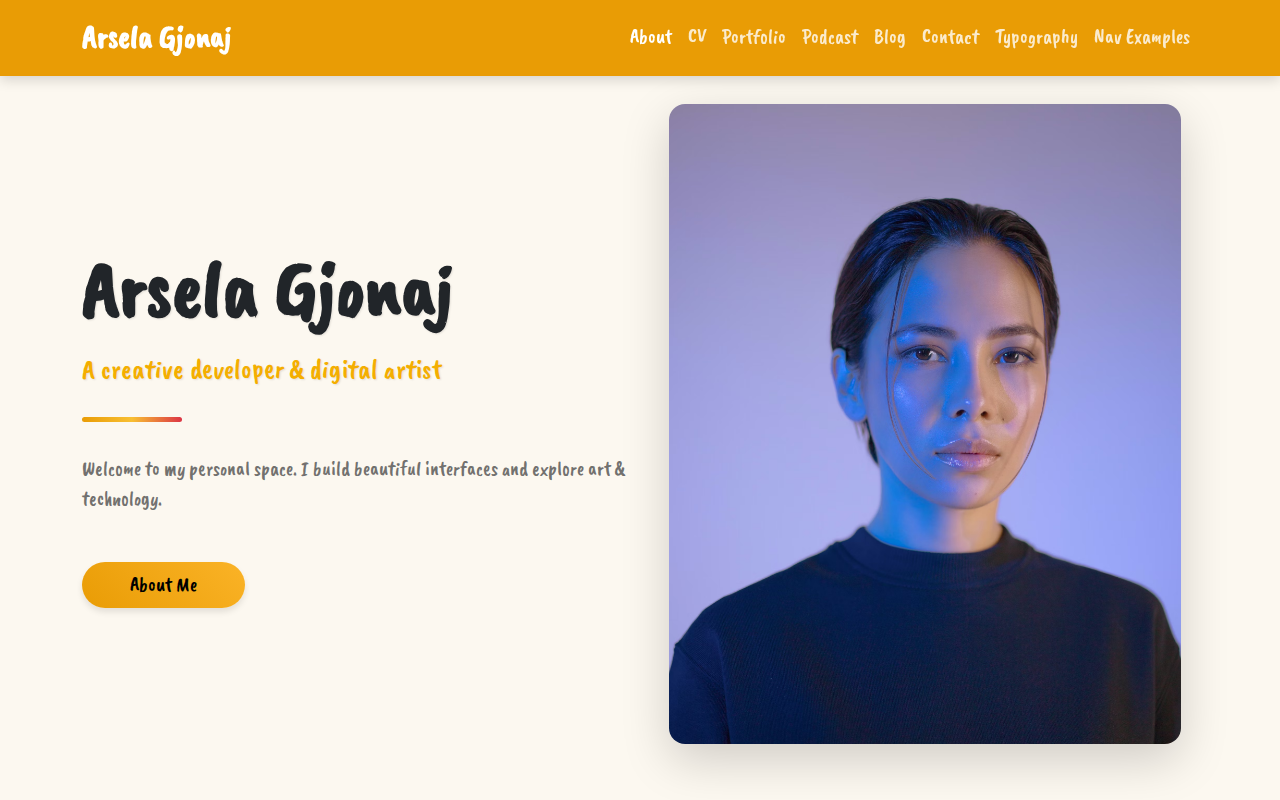
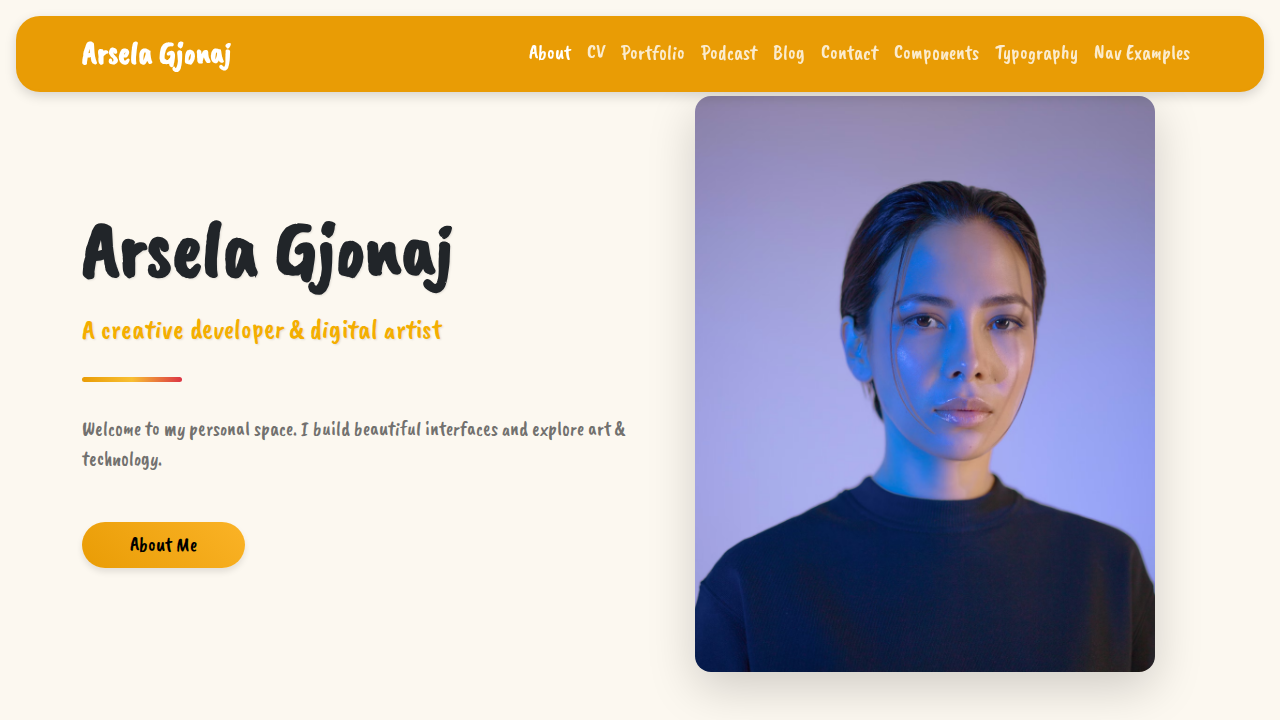
Remove header animation, add custom components page, and floating navbar

diff --git a/public/components.html b/public/components.html
@@ -1,0 +1,192 @@
+<!DOCTYPE html>
+<html lang="en">
+<head>
+    <meta charset="UTF-8">
+    <meta name="viewport" content="width=device-width, initial-scale=1.0">
+    <title>Components | Arsela Gjonaj</title>
+    <link rel="stylesheet" href="css/style.css">
+    <!-- Bootstrap Icons -->
+    <link rel="stylesheet" href="https://cdn.jsdelivr.net/npm/bootstrap-icons@1.11.1/font/bootstrap-icons.css">
+</head>
+<body>
+    <!-- Navbar -->
+    <nav class="navbar navbar-expand-lg navbar-light fixed-top">
+        <div class="container">
+            <a class="navbar-brand fw-bold text-primary" href="index.html">Arsela Gjonaj</a>
+            <button class="navbar-toggler" type="button" data-bs-toggle="collapse" data-bs-target="#navbarNav">
+                <span class="navbar-toggler-icon"></span>
+            </button>
+            <div class="collapse navbar-collapse" id="navbarNav">
+                <ul class="navbar-nav ms-auto">
+                    <li class="nav-item"><a class="nav-link" href="index.html">About</a></li>
+                    <li class="nav-item"><a class="nav-link" href="cv.html">CV</a></li>
+                    <li class="nav-item"><a class="nav-link" href="portfolio.html">Portfolio</a></li>
+                    <li class="nav-item"><a class="nav-link" href="podcast.html">Podcast</a></li>
+                    <li class="nav-item"><a class="nav-link" href="blog.html">Blog</a></li>
+                    <li class="nav-item"><a class="nav-link" href="contact.html">Contact</a></li>
+                    <li class="nav-item"><a class="nav-link active" href="components.html">Components</a></li>
+                    <li class="nav-item"><a class="nav-link" href="typography.html">Typography</a></li>
+                    <li class="nav-item"><a class="nav-link" href="navigation.html">Nav Examples</a></li>
+                </ul>
+            </div>
+        </div>
+    </nav>
+
+    <!-- Header / Title -->
+    <header class="d-flex align-items-center justify-content-center pt-5 pb-5" style="margin-top: 100px;">
+        <div class="container text-center">
+            <h1 class="display-3 fw-bold text-primary mb-3">Custom Components</h1>
+            <p class="lead text-secondary">A collection of custom styled components used in this theme.</p>
+        </div>
+    </header>
+
+    <!-- Components Section -->
+    <section class="py-5 bg-light">
+        <div class="container">
+
+            <!-- Buttons -->
+            <div class="mb-5">
+                <h2 class="mb-4">Buttons</h2>
+                <div class="p-4 bg-white rounded shadow-sm">
+                    <h5 class="mb-3">Button Variants</h5>
+                    <button type="button" class="btn btn-primary mb-2">Primary</button>
+                    <button type="button" class="btn btn-secondary mb-2">Secondary</button>
+                    <button type="button" class="btn btn-success mb-2">Success</button>
+                    <button type="button" class="btn btn-danger mb-2">Danger</button>
+                    <button type="button" class="btn btn-warning mb-2">Warning</button>
+                    <button type="button" class="btn btn-info mb-2">Info</button>
+                    <button type="button" class="btn btn-light mb-2">Light</button>
+                    <button type="button" class="btn btn-dark mb-2">Dark</button>
+                    <button type="button" class="btn btn-link mb-2">Link</button>
+
+                    <h5 class="mt-4 mb-3">Outline Buttons</h5>
+                    <button type="button" class="btn btn-outline-primary mb-2">Primary</button>
+                    <button type="button" class="btn btn-outline-secondary mb-2">Secondary</button>
+                    <button type="button" class="btn btn-outline-success mb-2">Success</button>
+
+                    <h5 class="mt-4 mb-3">Button Sizes</h5>
+                    <button type="button" class="btn btn-primary btn-lg mb-2">Large button</button>
+                    <button type="button" class="btn btn-primary mb-2">Default button</button>
+                    <button type="button" class="btn btn-primary btn-sm mb-2">Small button</button>
+
+                    <h5 class="mt-4 mb-3">Custom Rounded</h5>
+                    <button type="button" class="btn btn-primary rounded-pill px-4 mb-2">Pill Button</button>
+                </div>
+            </div>
+
+            <!-- Cards -->
+            <div class="mb-5">
+                <h2 class="mb-4">Cards</h2>
+                <div class="row g-4">
+                    <div class="col-md-4">
+                        <div class="card h-100">
+                            <img src="https://images.unsplash.com/photo-1516259762381-22954d7d3ad2?q=80&w=2089&auto=format&fit=crop" class="card-img-top" alt="Card Image">
+                            <div class="card-body">
+                                <h5 class="card-title">Card Title</h5>
+                                <p class="card-text">Some quick example text to build on the card title and make up the bulk of the card's content.</p>
+                                <a href="#" class="btn btn-primary">Go somewhere</a>
+                            </div>
+                        </div>
+                    </div>
+                    <div class="col-md-4">
+                        <div class="card h-100 text-center p-4">
+                            <div class="display-4 text-primary mb-3"><i class="bi bi-star"></i></div>
+                            <div class="card-body">
+                                <h5 class="card-title">Icon Card</h5>
+                                <p class="card-text">A card highlighting a specific feature or service with an icon.</p>
+                            </div>
+                        </div>
+                    </div>
+                    <div class="col-md-4">
+                        <div class="card text-white bg-primary h-100">
+                            <div class="card-header">Header</div>
+                            <div class="card-body">
+                                <h5 class="card-title">Primary Card</h5>
+                                <p class="card-text">Some quick example text to build on the card title and make up the bulk of the card's content.</p>
+                            </div>
+                        </div>
+                    </div>
+                </div>
+            </div>
+
+            <!-- Alerts -->
+            <div class="mb-5">
+                <h2 class="mb-4">Alerts</h2>
+                <div class="p-4 bg-white rounded shadow-sm">
+                    <div class="alert alert-primary" role="alert">
+                        A simple primary alert—check it out!
+                    </div>
+                    <div class="alert alert-secondary" role="alert">
+                        A simple secondary alert—check it out!
+                    </div>
+                    <div class="alert alert-success" role="alert">
+                        A simple success alert—check it out!
+                    </div>
+                    <div class="alert alert-danger" role="alert">
+                        A simple danger alert—check it out!
+                    </div>
+                    <div class="alert alert-warning" role="alert">
+                        A simple warning alert—check it out!
+                    </div>
+                    <div class="alert alert-info" role="alert">
+                        A simple info alert—check it out!
+                    </div>
+                </div>
+            </div>
+
+            <!-- Badges -->
+            <div class="mb-5">
+                <h2 class="mb-4">Badges</h2>
+                <div class="p-4 bg-white rounded shadow-sm">
+                    <h1>Example heading <span class="badge bg-primary">New</span></h1>
+                    <h2>Example heading <span class="badge bg-secondary">New</span></h2>
+                    <h3>Example heading <span class="badge bg-success">New</span></h3>
+                    <h4>Example heading <span class="badge bg-danger">New</span></h4>
+                    <h5>Example heading <span class="badge bg-warning text-dark">New</span></h5>
+                    <h6>Example heading <span class="badge bg-info text-dark">New</span></h6>
+
+                    <div class="mt-4">
+                        <button type="button" class="btn btn-primary">
+                            Notifications <span class="badge bg-secondary">4</span>
+                        </button>
+                    </div>
+                </div>
+            </div>
+
+            <!-- Progress -->
+            <div class="mb-5">
+                <h2 class="mb-4">Progress Bars</h2>
+                <div class="p-4 bg-white rounded shadow-sm">
+                    <div class="progress mb-3">
+                        <div class="progress-bar bg-success" role="progressbar" style="width: 25%" aria-valuenow="25" aria-valuemin="0" aria-valuemax="100"></div>
+                    </div>
+                    <div class="progress mb-3">
+                        <div class="progress-bar bg-info" role="progressbar" style="width: 50%" aria-valuenow="50" aria-valuemin="0" aria-valuemax="100"></div>
+                    </div>
+                    <div class="progress mb-3">
+                        <div class="progress-bar bg-warning" role="progressbar" style="width: 75%" aria-valuenow="75" aria-valuemin="0" aria-valuemax="100"></div>
+                    </div>
+                    <div class="progress">
+                        <div class="progress-bar bg-danger" role="progressbar" style="width: 100%" aria-valuenow="100" aria-valuemin="0" aria-valuemax="100"></div>
+                    </div>
+                </div>
+            </div>
+
+        </div>
+    </section>
+
+    <!-- Footer -->
+    <footer class="mt-auto">
+        <div class="container text-center">
+            <div class="mb-3">
+                <a href="#" class="text-white mx-2"><i class="bi bi-twitter fs-4"></i></a>
+                <a href="#" class="text-white mx-2"><i class="bi bi-linkedin fs-4"></i></a>
+                <a href="#" class="text-white mx-2"><i class="bi bi-github fs-4"></i></a>
+            </div>
+            <p>&copy; 2023 Arsela Gjonaj. All rights reserved.</p>
+        </div>
+    </footer>
+
+    <script src="https://cdn.jsdelivr.net/npm/bootstrap@5.3.0/dist/js/bootstrap.bundle.min.js"></script>
+</body>
+</html>

diff --git a/public/navigation.html b/public/navigation.html
@@ -40,7 +40,14 @@
             </button>
             <div class="collapse navbar-collapse" id="navbarNav">
                 <ul class="navbar-nav ms-auto">
-                    <li class="nav-item"><a class="nav-link" href="index.html">Back to Home</a></li>
+                    <li class="nav-item"><a class="nav-link" href="index.html">About</a></li>
+                    <li class="nav-item"><a class="nav-link" href="cv.html">CV</a></li>
+                    <li class="nav-item"><a class="nav-link" href="portfolio.html">Portfolio</a></li>
+                    <li class="nav-item"><a class="nav-link" href="podcast.html">Podcast</a></li>
+                    <li class="nav-item"><a class="nav-link" href="blog.html">Blog</a></li>
+                    <li class="nav-item"><a class="nav-link" href="contact.html">Contact</a></li>
+                    <li class="nav-item"><a class="nav-link" href="components.html">Components</a></li>
+                    <li class="nav-item"><a class="nav-link active" href="navigation.html">Nav Examples</a></li>
                 </ul>
             </div>
         </div>

diff --git a/public/index.html b/public/index.html
@@ -24,6 +24,7 @@
                     <li class="nav-item"><a class="nav-link" href="podcast.html">Podcast</a></li>
                     <li class="nav-item"><a class="nav-link" href="blog.html">Blog</a></li>
                     <li class="nav-item"><a class="nav-link" href="contact.html">Contact</a></li>
+                    <li class="nav-item"><a class="nav-link" href="components.html">Components</a></li>
                     <li class="nav-item"><a class="nav-link" href="typography.html">Typography</a></li>
                     <li class="nav-item"><a class="nav-link" href="navigation.html">Nav Examples</a></li>
                 </ul>
@@ -92,6 +93,5 @@
     </footer>
 
     <script src="https://cdn.jsdelivr.net/npm/bootstrap@5.3.0/dist/js/bootstrap.bundle.min.js"></script>
-    <script src="js/header-animation.js"></script>
 </body>
 </html>

diff --git a/public/blog.html b/public/blog.html
@@ -22,6 +22,7 @@
                     <li class="nav-item"><a class="nav-link" href="podcast.html">Podcast</a></li>
                     <li class="nav-item"><a class="nav-link active" href="blog.html">Blog</a></li>
                     <li class="nav-item"><a class="nav-link" href="contact.html">Contact</a></li>
+                    <li class="nav-item"><a class="nav-link" href="components.html">Components</a></li>
                     <li class="nav-item"><a class="nav-link" href="typography.html">Typography</a></li>
                 </ul>
             </div>

diff --git a/public/contact.html b/public/contact.html
@@ -22,6 +22,7 @@
                     <li class="nav-item"><a class="nav-link" href="podcast.html">Podcast</a></li>
                     <li class="nav-item"><a class="nav-link" href="blog.html">Blog</a></li>
                     <li class="nav-item"><a class="nav-link active" href="contact.html">Contact</a></li>
+                    <li class="nav-item"><a class="nav-link" href="components.html">Components</a></li>
                     <li class="nav-item"><a class="nav-link" href="typography.html">Typography</a></li>
                 </ul>
             </div>

diff --git a/public/podcast.html b/public/podcast.html
@@ -22,6 +22,7 @@
                     <li class="nav-item"><a class="nav-link active" href="podcast.html">Podcast</a></li>
                     <li class="nav-item"><a class="nav-link" href="blog.html">Blog</a></li>
                     <li class="nav-item"><a class="nav-link" href="contact.html">Contact</a></li>
+                    <li class="nav-item"><a class="nav-link" href="components.html">Components</a></li>
                     <li class="nav-item"><a class="nav-link" href="typography.html">Typography</a></li>
                 </ul>
             </div>

diff --git a/public/typography.html b/public/typography.html
@@ -22,6 +22,7 @@
                     <li class="nav-item"><a class="nav-link" href="podcast.html">Podcast</a></li>
                     <li class="nav-item"><a class="nav-link" href="blog.html">Blog</a></li>
                     <li class="nav-item"><a class="nav-link" href="contact.html">Contact</a></li>
+                    <li class="nav-item"><a class="nav-link" href="components.html">Components</a></li>
                     <li class="nav-item"><a class="nav-link active" href="typography.html">Typography</a></li>
                 </ul>
             </div>

diff --git a/public/cv.html b/public/cv.html
@@ -22,6 +22,7 @@
                     <li class="nav-item"><a class="nav-link" href="podcast.html">Podcast</a></li>
                     <li class="nav-item"><a class="nav-link" href="blog.html">Blog</a></li>
                     <li class="nav-item"><a class="nav-link" href="contact.html">Contact</a></li>
+                    <li class="nav-item"><a class="nav-link" href="components.html">Components</a></li>
                     <li class="nav-item"><a class="nav-link" href="typography.html">Typography</a></li>
                 </ul>
             </div>

diff --git a/public/portfolio.html b/public/portfolio.html
@@ -22,6 +22,7 @@
                     <li class="nav-item"><a class="nav-link" href="podcast.html">Podcast</a></li>
                     <li class="nav-item"><a class="nav-link" href="blog.html">Blog</a></li>
                     <li class="nav-item"><a class="nav-link" href="contact.html">Contact</a></li>
+                    <li class="nav-item"><a class="nav-link" href="components.html">Components</a></li>
                     <li class="nav-item"><a class="nav-link" href="typography.html">Typography</a></li>
                 </ul>
             </div>

diff --git a/src/scss/_custom.scss b/src/scss/_custom.scss
@@ -41,6 +41,15 @@ h1, h2, h3, h4, h5, h6 {
   backdrop-filter: blur(10px);
   border-bottom: 2px solid rgba($primary, 0.2);
   box-shadow: 0 4px 12px rgba(0,0,0,0.15); // Add shadow
+  transition: all 0.3s ease-in-out;
+
+  &.fixed-top {
+    top: 1rem;
+    left: 1rem;
+    right: 1rem;
+    width: auto;
+    border-radius: $border-radius-lg;
+  }
 
   .navbar-brand {
     font-size: 2rem; // Bigger font size for logo

diff --git a/public/css/style.css b/public/css/style.css
@@ -6786,6 +6786,14 @@ h1, .h1, h2, .h2, h3, .h3, h4, .h4, h5, .h5, h6, .h6 {
   backdrop-filter: blur(10px);
   border-bottom: 2px solid rgba(233, 156, 5, 0.2);
   box-shadow: 0 4px 12px rgba(0, 0, 0, 0.15);
+  transition: all 0.3s ease-in-out;
+}
+.navbar.fixed-top {
+  top: 1rem;
+  left: 1rem;
+  right: 1rem;
+  width: auto;
+  border-radius: 1.5rem;
 }
 .navbar .navbar-brand {
   font-size: 2rem;

diff --git a/verification/verify_changes.py b/verification/verify_changes.py
@@ -1,27 +1,44 @@
-
-from playwright.sync_api import sync_playwright
+from playwright.sync_api import sync_playwright, expect
 import os
 
 def run():
-    # Get the absolute path to index.html
-    cwd = os.getcwd()
-    file_url = f"file://{cwd}/public/index.html"
-
     with sync_playwright() as p:
         browser = p.chromium.launch(headless=True)
         page = browser.new_page()
-        page.set_viewport_size({"width": 1280, "height": 800})
 
-        print(f"Navigating to {file_url}")
-        page.goto(file_url)
+        # Determine the absolute path to public/index.html
+        cwd = os.getcwd()
+        index_path = f"file://{cwd}/public/index.html"
 
-        # Wait for animation to start (it uses requestAnimationFrame, so a small delay is good)
-        page.wait_for_timeout(2000)
+        print(f"Navigating to: {index_path}")
+        page.goto(index_path)
 
-        # Take screenshot
-        screenshot_path = "verification/index_screenshot.png"
-        page.screenshot(path=screenshot_path)
-        print(f"Screenshot saved to {screenshot_path}")
+        # Verify the title
+        expect(page).to_have_title("About Me | Arsela Gjonaj")
+
+        # Verify the navbar link to Components exists
+        components_link = page.get_by_role("link", name="Components")
+        expect(components_link).to_be_visible()
+
+        # Verify the logo text is correct
+        logo = page.get_by_role("link", name="Arsela Gjonaj")
+        expect(logo).to_be_visible()
+        expect(logo).to_have_class("navbar-brand fw-bold text-primary")
+
+        # Take a screenshot of the index page to verify header removal and navbar
+        page.screenshot(path="verification/index_screenshot.png")
+        print("Screenshot saved to verification/index_screenshot.png")
+
+        # Navigate to Components page
+        components_path = f"file://{cwd}/public/components.html"
+        page.goto(components_path)
+
+        # Verify title
+        expect(page).to_have_title("Components | Arsela Gjonaj")
+
+        # Take a screenshot of components page
+        page.screenshot(path="verification/components_screenshot.png")
+        print("Screenshot saved to verification/components_screenshot.png")
 
         browser.close()
 
